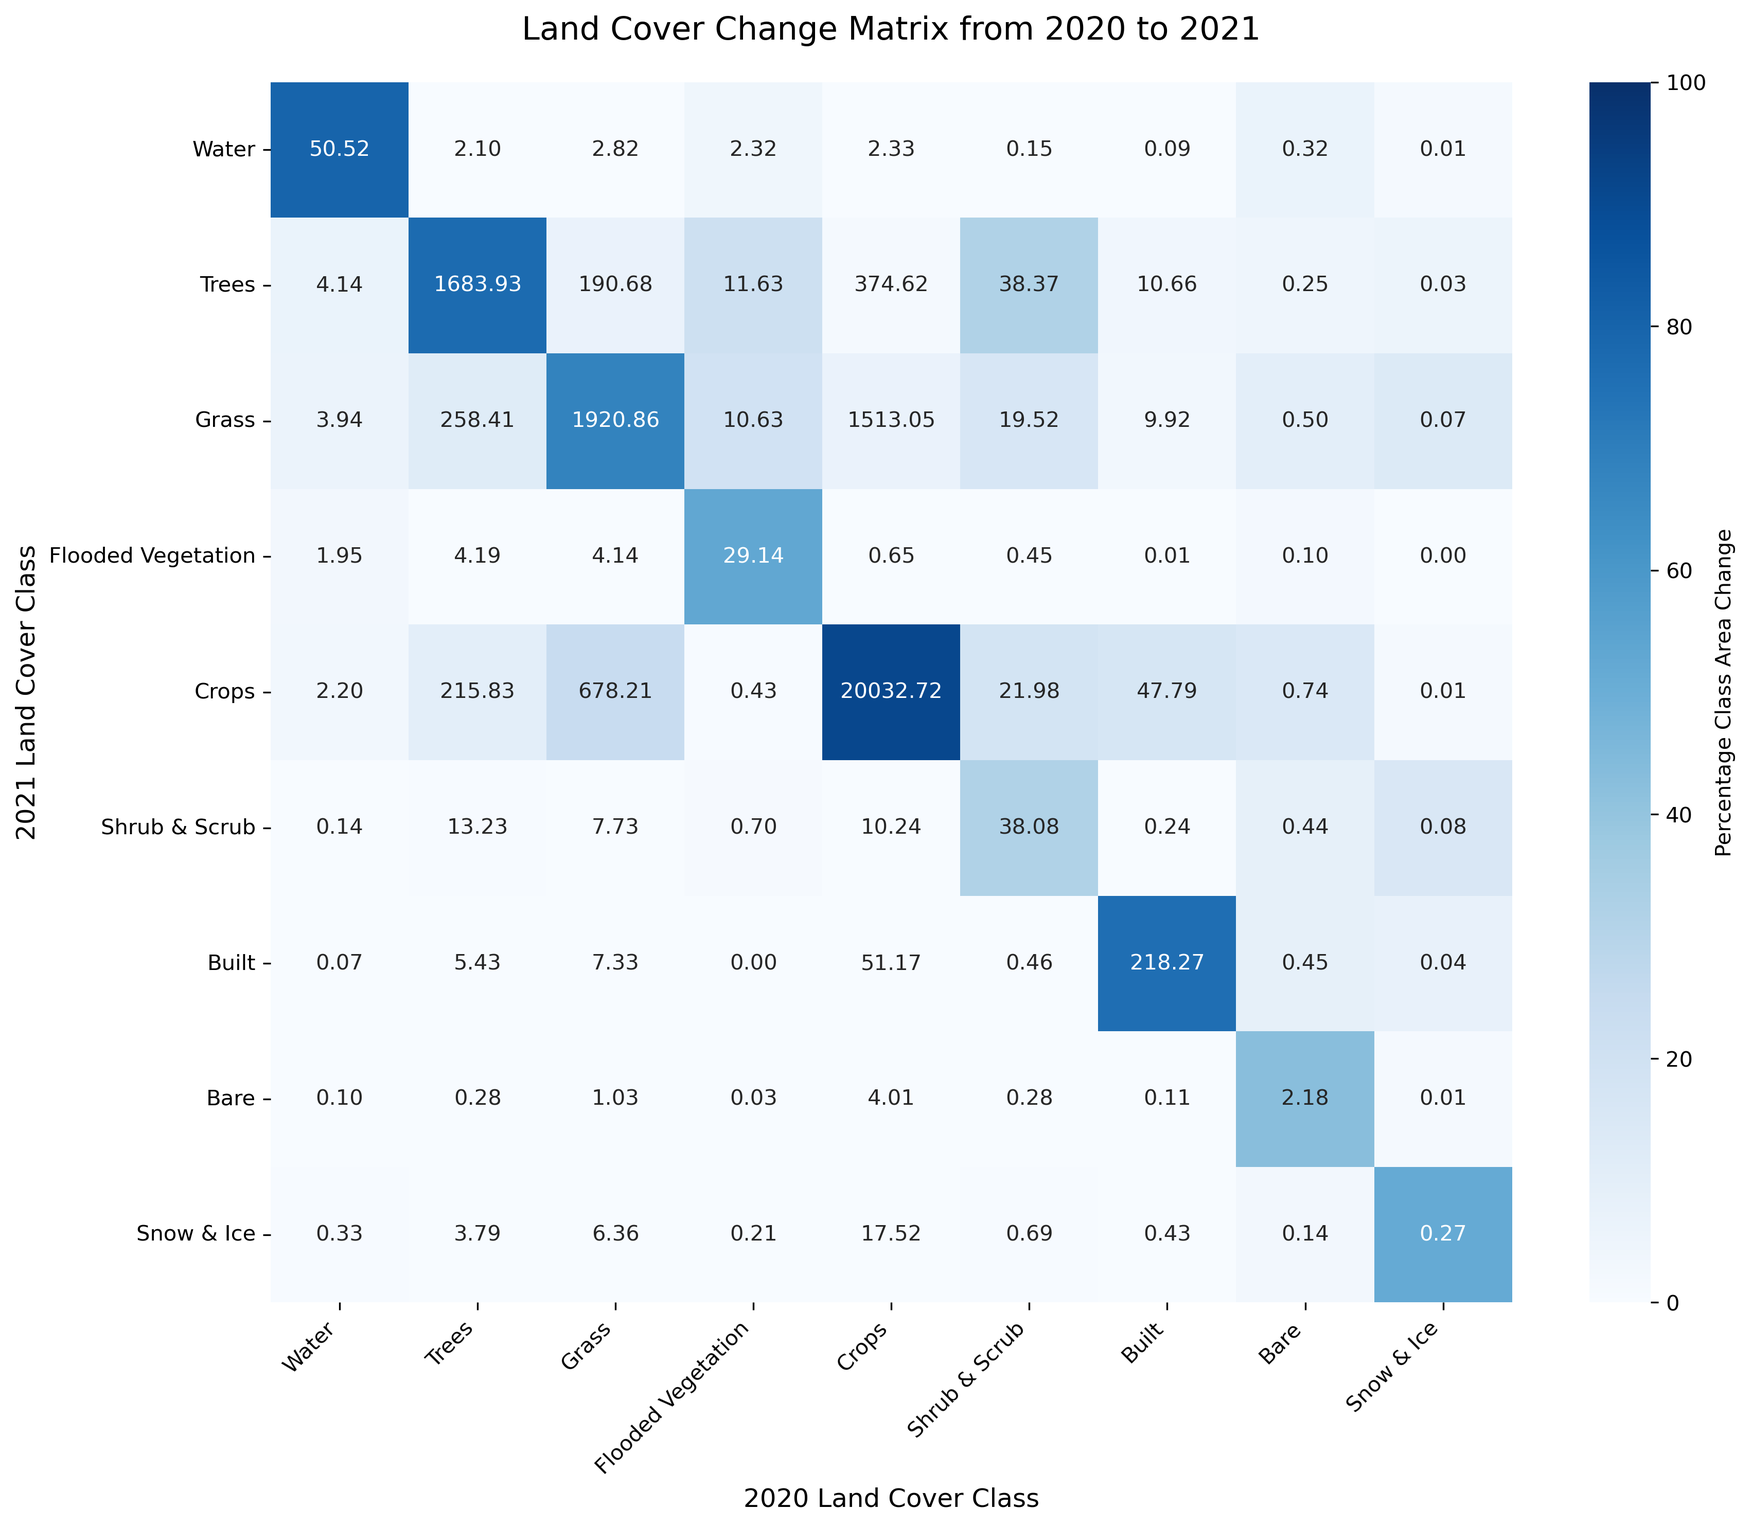
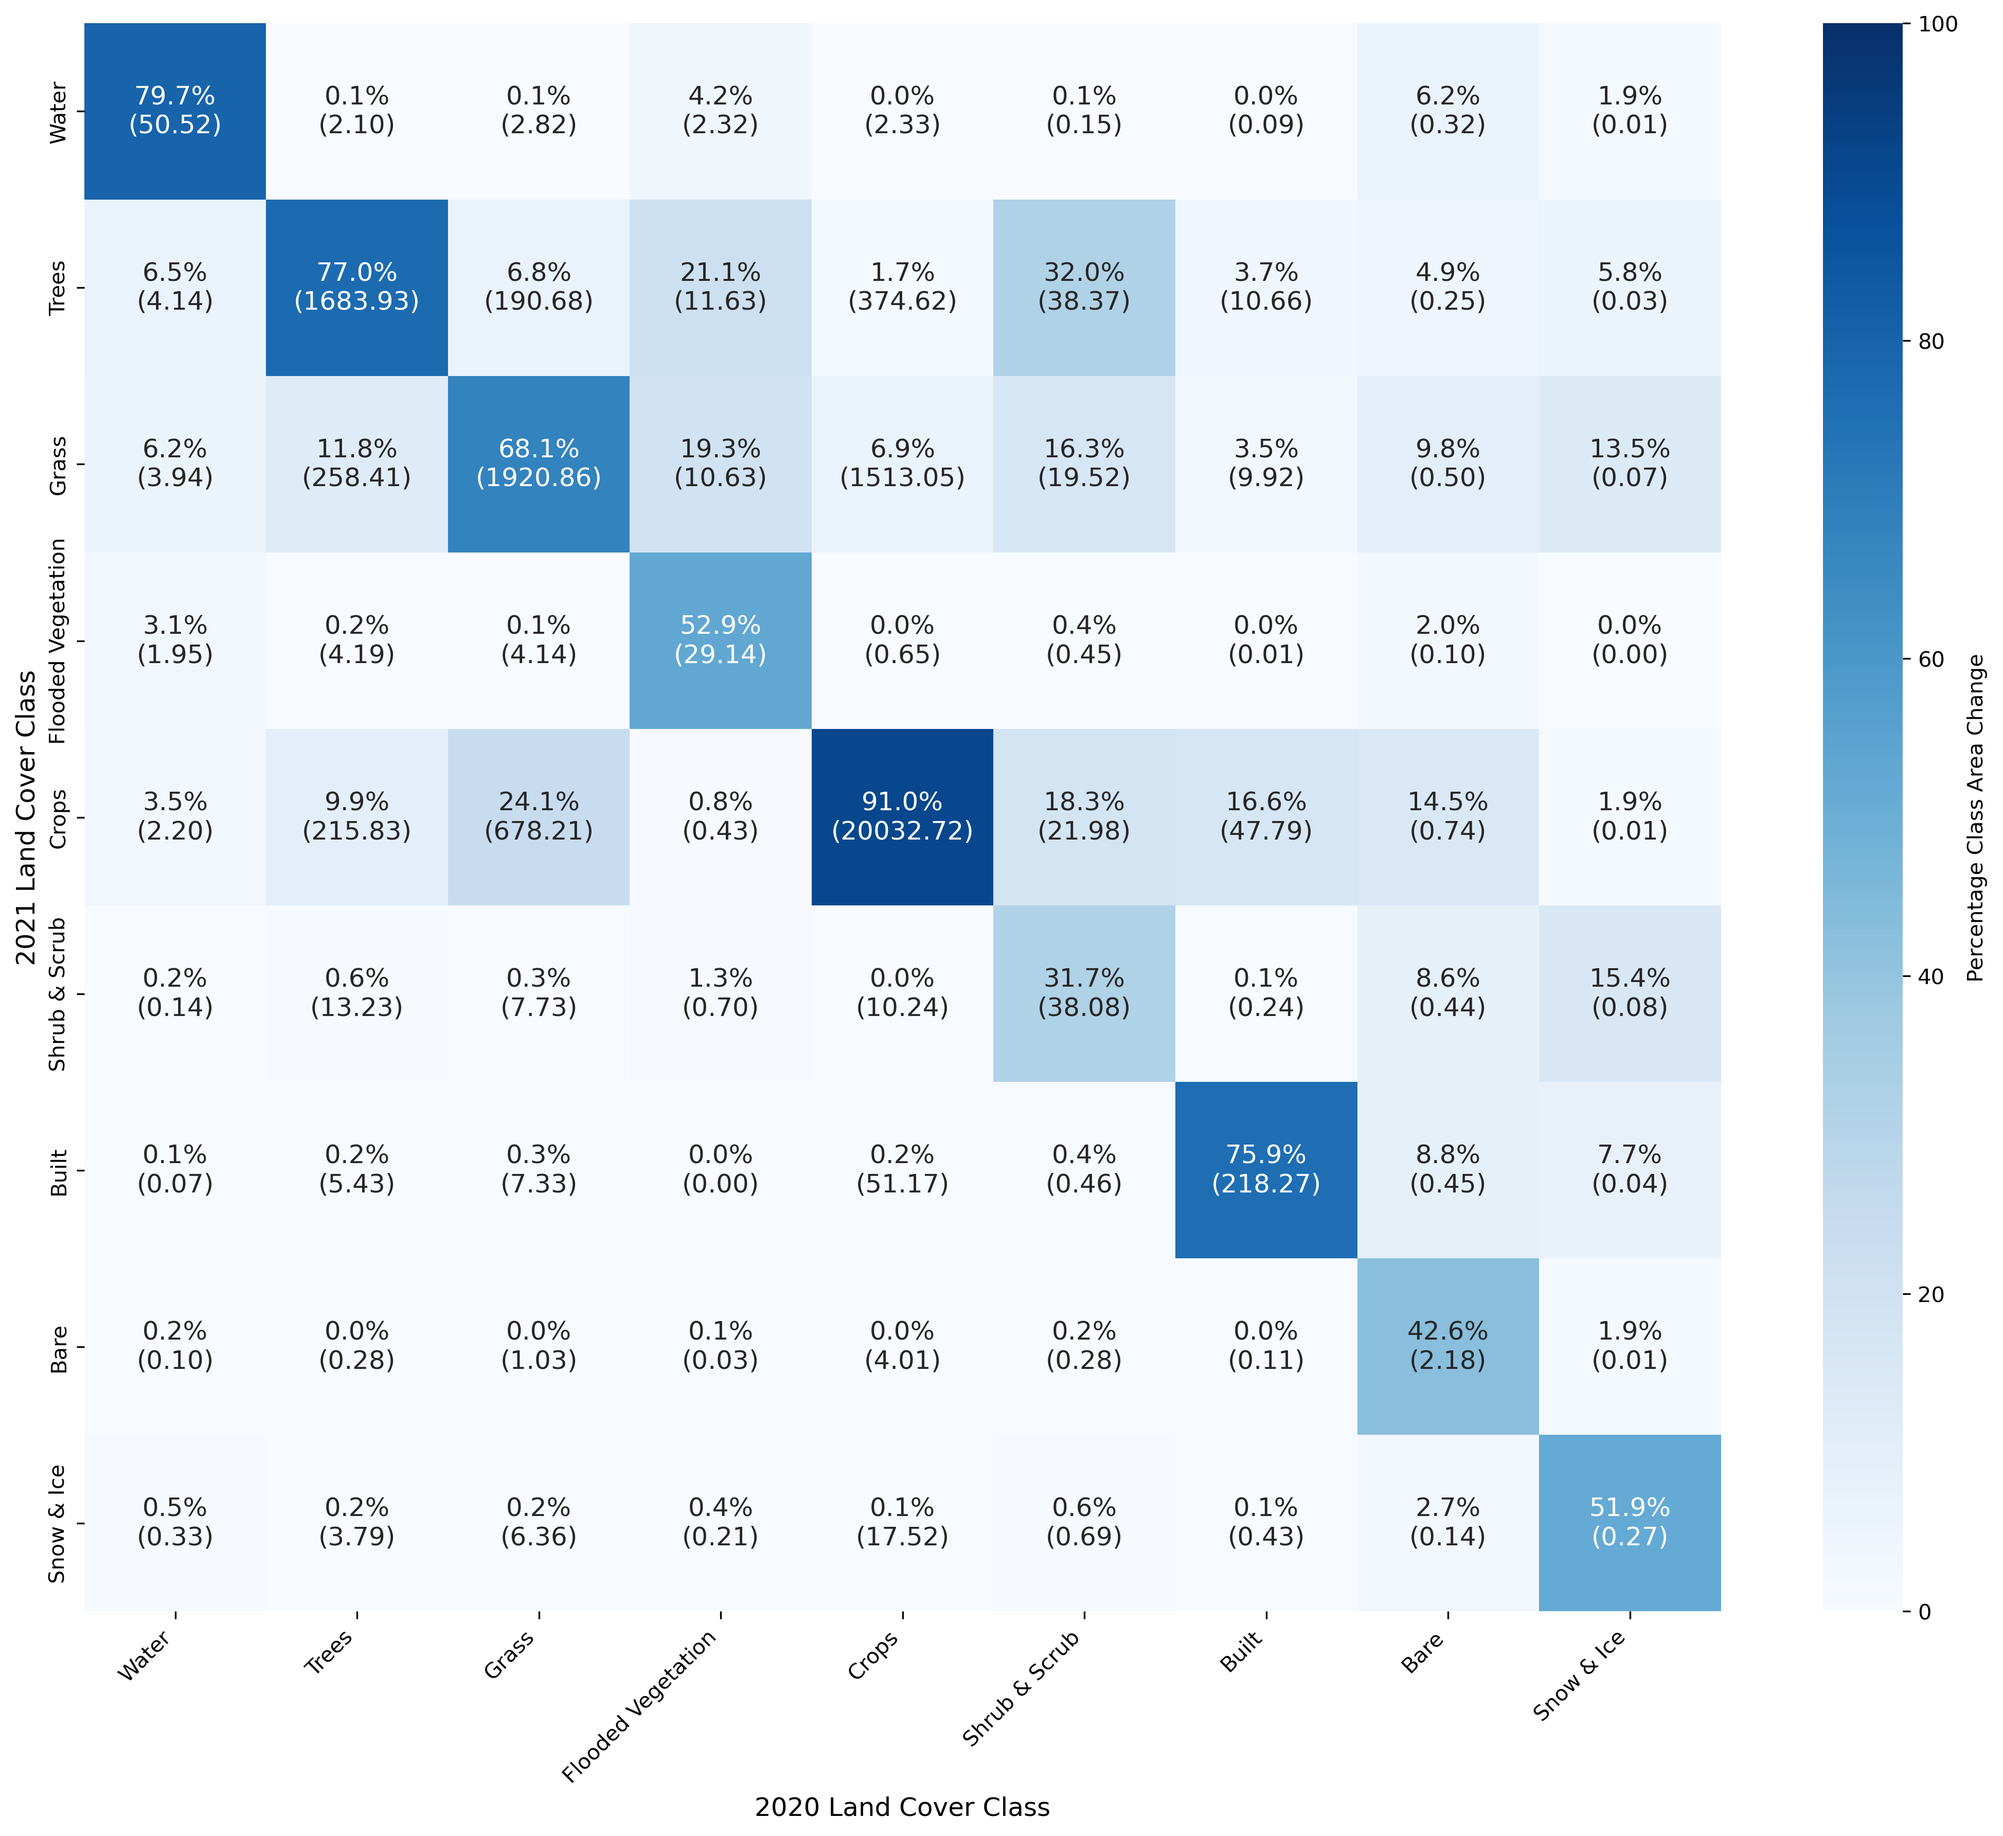
tweeking graphs

diff --git a/plot.py b/plot.py
@@ -3,7 +3,7 @@ import seaborn as sns
 import matplotlib.pyplot as plt
 import numpy as np
 
-def plot_change_matrix(year):
+def plot_change_matrix():
     # Load data
     df = pd.read_csv('Results/ChangeMatrix20_25.csv', index_col=0)
 
@@ -14,7 +14,7 @@ def plot_change_matrix(year):
     # Create custom labels: "Raw Value \n (Percentage%)"
     # We use a nested list comprehension to format each cell
     labels = np.array([
-        [f"{val:.2f}\n({pct:.1f}%)" for val, pct in zip(row_val, row_pct)]
+        [f"{pct:.1f}%\n({val:.2f})" for val, pct in zip(row_val, row_pct)]
         for row_val, row_pct in zip(df.values, df_percent.values)
     ])
 
@@ -30,7 +30,6 @@ def plot_change_matrix(year):
                 annot_kws={'size': 12}, # Adjust font size here to fit both lines
                 cbar_kws={'label': 'Percentage Class Area Change'})
     
-    plt.title("Land Cover Change Matrix from 2020 to 2025", fontsize=15, pad=20)
     plt.xlabel("2020 Land Cover Class", fontsize=12)
     plt.ylabel("2025 Land Cover Class", fontsize=12)
     plt.xticks(rotation=45, ha='right')
@@ -39,25 +38,24 @@ def plot_change_matrix(year):
     plt.savefig('ChangeMatrix/ChangeMatrix20_25.png', dpi=300, bbox_inches='tight')
 
 def plot_change_count():
-    df = pd.read_csv('Results/ChangeCountNoRSC20_25.csv', header=None, names=['Changes', 'Value'])
+    df = pd.read_csv('Results/ChangeCount20_25.csv', header=None, names=['Changes', 'Value'])
 
     df['Changes'] = df['Changes'].astype(str)
     total_sum = df['Value'].sum()
     print(total_sum)
     df['Percentage'] = (df['Value'] / total_sum) * 100
 
-    bars = plt.bar(df['Changes'], df['Percentage'], color='blue')
+    bars = plt.bar(df['Changes'], df['Percentage'], color='#c4281b')
 
     plt.bar_label(bars, fmt='%.2f%%', padding=3)
 
     plt.xlabel('No. of Changes')
     plt.ylabel('Percentage (%)')
-    plt.title('Bar Plot from CSV Data')
 
     plt.ylim(0, df['Percentage'].max() * 1.15)
 
     plt.tight_layout()
-    plt.savefig('change_count_no_rsc.png')
+    plt.savefig('change_count.png')
 
 def plot_classifications_separate():
     df = pd.read_csv('Results/ClassificationsDAA20_25.csv', index_col=0)
@@ -148,4 +146,4 @@ def plot_percentage_stacked_bar_custom():
     plt.tight_layout()
     plt.savefig('classifications_daa_comparison_stacked.png')
 
-plot_change_matrix(22)
+plot_change_matrix()
